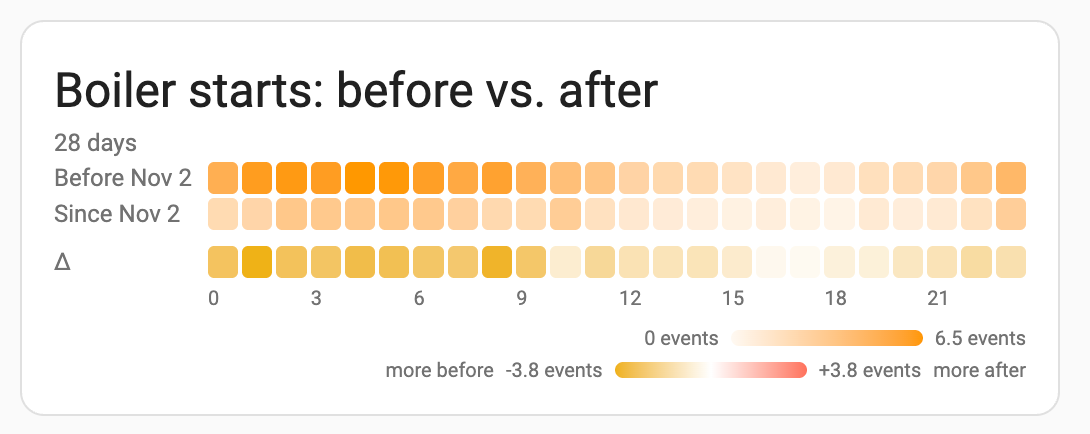
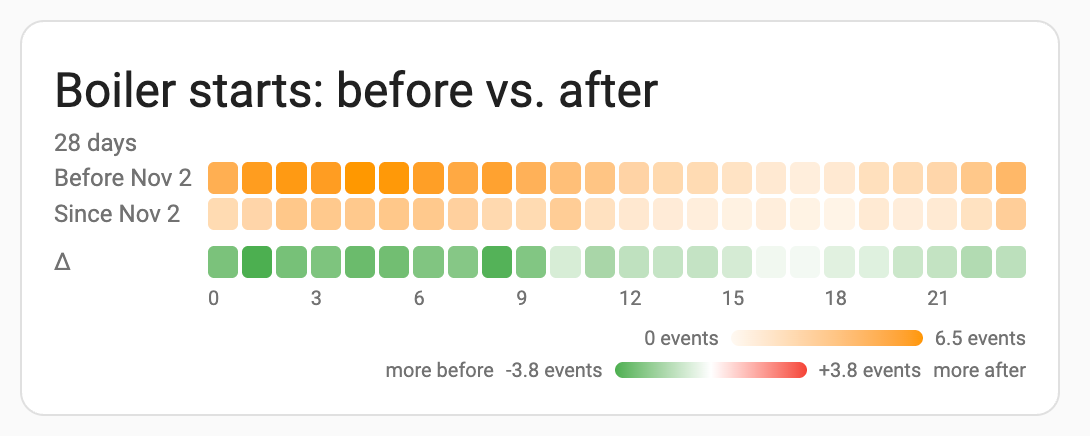
Farben im Vergleich einstellbar (0.7.0)
- compare_colors: [erste, zweite] für Linien, Bänder und Tooltip der
  beiden Gruppen (Standard: Graph-Farben 2 und 3)
- difference_colors: [weniger, mehr] für die Differenzzeile, z. B.
  [green, red] wenn weniger besser ist (Standard: Gruppenfarben)
- Editor: Farbwähler je Gruppe und für die Differenz, nach Vergleich
  beschriftet
- README/SPEC: Optionen, Beispiel vorher/nachher mit Grün/Rot und Bild

diff --git a/preview.html b/preview.html
@@ -107,7 +107,7 @@ customElements.define("ha-chart-base", class extends HTMLElement {
  * Lizenz: MIT
  */
 
-const CARD_VERSION = "0.6.3";
+const CARD_VERSION = "0.7.0";
 
 console.info(
   `%c PATTERN-CARD %c ${CARD_VERSION} `,
@@ -232,6 +232,11 @@ const I18N = {
     difference: "Difference row (weekend − workdays)",
     hide_legend: "Hide legend",
     hide_subtitle: "Hide subtitle (period and hints)",
+    color_of: "Color {group}",
+    color_less: "Difference: color for less",
+    color_more: "Difference: color for more",
+    group_before_short: "before",
+    group_after_short: "after",
   },
   de: {
     today: "Heute",
@@ -306,6 +311,11 @@ const I18N = {
     difference: "Differenzzeile (Wochenende − Werktage)",
     hide_legend: "Legende ausblenden",
     hide_subtitle: "Untertitel ausblenden (Zeitraum und Hinweise)",
+    color_of: "Farbe {group}",
+    color_less: "Differenz: Farbe für weniger",
+    color_more: "Differenz: Farbe für mehr",
+    group_before_short: "vorher",
+    group_after_short: "nachher",
   },
 };
 
@@ -1271,6 +1281,11 @@ class PatternCard extends HTMLElement {
     if (config.compare !== undefined && !COMPARE_MODES.includes(config.compare)) throw new Error("compare must be none, weekday_weekend or before_after");
     if (config.compare === "before_after" && dateKey(config.since) === null) throw new Error("compare: before_after needs since: YYYY-MM-DD");
     if (config.reference !== undefined && !REFERENCE_MODES.includes(config.reference)) throw new Error("reference must be auto or all");
+    for (const key of ["compare_colors", "difference_colors"]) {
+      if (config[key] !== undefined && !(Array.isArray(config[key]) && config[key].length <= 2)) {
+        throw new Error(`${key} must be a list of two colors`);
+      }
+    }
     if (config.band !== undefined && !BAND_MODES.includes(config.band)) throw new Error("band must be both, iqr, wide, minmax or none");
     const prev = this._config;
     this._config = { mode: "graph", ...config };
@@ -1586,8 +1601,14 @@ class PatternCard extends HTMLElement {
     const kind = this._info?.kind || "state";
     const user = cssColor(cfg.color);
     const neutral = this._resolveColor("var(--secondary-text-color)");
-    const workday = this._resolveColor("var(--graph-color-2, var(--color-2, #efb118))");
-    const weekend = this._resolveColor("var(--graph-color-3, var(--color-3, #ff725c))");
+    // Gruppenfarben: compare_colors oder die Graph-Farben 2 und 3 von HA
+    const cc = Array.isArray(cfg.compare_colors) ? cfg.compare_colors : [];
+    const workday = this._resolveColor(cssColor(cc[0]) || "var(--graph-color-2, var(--color-2, #efb118))");
+    const weekend = this._resolveColor(cssColor(cc[1]) || "var(--graph-color-3, var(--color-3, #ff725c))");
+    // Differenzzeile: difference_colors [weniger, mehr], sonst die Gruppenfarben
+    const dc = Array.isArray(cfg.difference_colors) ? cfg.difference_colors : [];
+    const diffLess = cssColor(dc[0]) ? this._resolveColor(cssColor(dc[0])) : workday;
+    const diffMore = cssColor(dc[1]) ? this._resolveColor(cssColor(dc[1])) : weekend;
     return {
       today: this._resolveColor(user || defaultColor(st, kind, true)),
       reference: neutral,
@@ -1597,6 +1618,8 @@ class PatternCard extends HTMLElement {
         : { workday: neutral, weekend: neutral, before: neutral, after: neutral, reference: neutral },
       workday,
       weekend,
+      diffLess,
+      diffMore,
       heat: user || defaultColor(st, kind, false),
     };
   }
@@ -1744,8 +1767,8 @@ class PatternCard extends HTMLElement {
     let diffMax = 0;
     if (diff) for (const c of diff) if (c.value != null) diffMax = Math.max(diffMax, Math.abs(c.value));
     if (!(diffMax > 0)) diffMax = 1;
-    const neg = parseRgb(colors.workday) || [239, 177, 24, 1];
-    const pos = parseRgb(colors.weekend) || [255, 114, 92, 1];
+    const neg = parseRgb(colors.diffLess) || [239, 177, 24, 1];
+    const pos = parseRgb(colors.diffMore) || [255, 114, 92, 1];
     const diffColor = (v) => {
       const c = v < 0 ? neg : pos;
       return rgbaString([c[0], c[1], c[2], Math.min(1, Math.abs(v) / diffMax)]);
@@ -1902,6 +1925,26 @@ const editorSchema = (cfg, kind, t) => {
     });
   }
   if (mode === "heatmap" && compare) schema.push({ name: "difference", selector: { boolean: {} } });
+  if (compare) {
+    schema.push({
+      type: "grid",
+      name: "",
+      schema: [
+        { name: "compare_color_1", selector: { ui_color: {} } },
+        { name: "compare_color_2", selector: { ui_color: {} } },
+      ],
+    });
+    if (mode === "heatmap" && cfg.difference !== false) {
+      schema.push({
+        type: "grid",
+        name: "",
+        schema: [
+          { name: "difference_color_less", selector: { ui_color: {} } },
+          { name: "difference_color_more", selector: { ui_color: {} } },
+        ],
+      });
+    }
+  }
   if (stats.length > 1) {
     schema.push({
       name: "statistic",
@@ -1974,11 +2017,22 @@ class PatternCardEditor extends HTMLElement {
       compare: "none",
       reference: "auto",
       difference: true,
+      compare_color_1: cfg.compare_colors?.[0],
+      compare_color_2: cfg.compare_colors?.[1],
+      difference_color_less: cfg.difference_colors?.[0],
+      difference_color_more: cfg.difference_colors?.[1],
       weekdays: [...WEEKDAYS],
       ...cfg,
       statistic: resolveStatistic(cfg.statistic, kind),
     };
-    form.computeLabel = (s) => this._t(s.name);
+    form.computeLabel = (s) => {
+      const groups = cfg.compare === "before_after" ? ["group_before_short", "group_after_short"] : ["group_workday", "group_weekend"];
+      if (s.name === "compare_color_1") return this._t("color_of", { group: this._t(groups[0]) });
+      if (s.name === "compare_color_2") return this._t("color_of", { group: this._t(groups[1]) });
+      if (s.name === "difference_color_less") return this._t("color_less");
+      if (s.name === "difference_color_more") return this._t("color_more");
+      return this._t(s.name);
+    };
     form.computeHelper = (s) => ({
       days: this._t("helper_days"),
       resolution: this._t("helper_resolution"),
@@ -2015,6 +2069,13 @@ class PatternCardEditor extends HTMLElement {
     if (v.difference === true) delete v.difference;
     if (v.hide_legend === false) delete v.hide_legend;
     if (v.hide_subtitle === false) delete v.hide_subtitle;
+    // Einzelfelder der Farbwähler wieder zu Listen zusammenfassen
+    const pair = (a, b) => (a || b ? [a ?? null, b ?? null] : undefined);
+    v.compare_colors = pair(v.compare_color_1, v.compare_color_2);
+    v.difference_colors = pair(v.difference_color_less, v.difference_color_more);
+    for (const k of ["compare_color_1", "compare_color_2", "difference_color_less", "difference_color_more"]) delete v[k];
+    if (!v.compare || v.compare === "none") { delete v.compare_colors; delete v.difference_colors; }
+    if (v.mode !== "heatmap" || v.difference === false) delete v.difference_colors;
     if (kind !== "counter") delete v.cumulative;
     Object.keys(v).forEach((k) => {
       if (v[k] === undefined || v[k] === "" || v[k] === null) delete v[k];
@@ -2136,7 +2197,7 @@ const configs = [
   { type: "custom:pattern-card", entity: "binary_sensor.bewegung", mode: "graph", days: 28 },
   { type: "custom:pattern-card", entity: "sensor.leistung", mode: "graph", days: 28, compare: "weekday_weekend", name: L("Werktage gegen Wochenende", "Workdays vs. weekend") },
   { type: "custom:pattern-card", entity: "binary_sensor.bewegung", mode: "heatmap", days: 28, compare: "weekday_weekend", name: L("Belegung Werktage/Wochenende", "Occupancy: workdays vs. weekend") },
-  { type: "custom:pattern-card", entity: "binary_sensor.therme", mode: "heatmap", days: 28, statistic: "events", compare: "before_after", since: SINCE, name: L("Brennerstarts vorher/nachher", "Boiler starts: before vs. after") },
+  { type: "custom:pattern-card", entity: "binary_sensor.therme", mode: "heatmap", days: 28, statistic: "events", compare: "before_after", since: SINCE, difference_colors: ["green", "red"], name: L("Brennerstarts vorher/nachher", "Boiler starts: before vs. after") },
 ];
 
 const yaml = (c) => Object.entries(c).map(([k, v]) => `${k}: ${Array.isArray(v) ? `[${v.join(", ")}]` : v}`).join("\n");

diff --git a/pattern-card.js b/pattern-card.js
@@ -14,7 +14,7 @@
  * Lizenz: MIT
  */
 
-const CARD_VERSION = "0.6.3";
+const CARD_VERSION = "0.7.0";
 
 console.info(
   `%c PATTERN-CARD %c ${CARD_VERSION} `,
@@ -139,6 +139,11 @@ const I18N = {
     difference: "Difference row (weekend − workdays)",
     hide_legend: "Hide legend",
     hide_subtitle: "Hide subtitle (period and hints)",
+    color_of: "Color {group}",
+    color_less: "Difference: color for less",
+    color_more: "Difference: color for more",
+    group_before_short: "before",
+    group_after_short: "after",
   },
   de: {
     today: "Heute",
@@ -213,6 +218,11 @@ const I18N = {
     difference: "Differenzzeile (Wochenende − Werktage)",
     hide_legend: "Legende ausblenden",
     hide_subtitle: "Untertitel ausblenden (Zeitraum und Hinweise)",
+    color_of: "Farbe {group}",
+    color_less: "Differenz: Farbe für weniger",
+    color_more: "Differenz: Farbe für mehr",
+    group_before_short: "vorher",
+    group_after_short: "nachher",
   },
 };
 
@@ -1178,6 +1188,11 @@ class PatternCard extends HTMLElement {
     if (config.compare !== undefined && !COMPARE_MODES.includes(config.compare)) throw new Error("compare must be none, weekday_weekend or before_after");
     if (config.compare === "before_after" && dateKey(config.since) === null) throw new Error("compare: before_after needs since: YYYY-MM-DD");
     if (config.reference !== undefined && !REFERENCE_MODES.includes(config.reference)) throw new Error("reference must be auto or all");
+    for (const key of ["compare_colors", "difference_colors"]) {
+      if (config[key] !== undefined && !(Array.isArray(config[key]) && config[key].length <= 2)) {
+        throw new Error(`${key} must be a list of two colors`);
+      }
+    }
     if (config.band !== undefined && !BAND_MODES.includes(config.band)) throw new Error("band must be both, iqr, wide, minmax or none");
     const prev = this._config;
     this._config = { mode: "graph", ...config };
@@ -1493,8 +1508,14 @@ class PatternCard extends HTMLElement {
     const kind = this._info?.kind || "state";
     const user = cssColor(cfg.color);
     const neutral = this._resolveColor("var(--secondary-text-color)");
-    const workday = this._resolveColor("var(--graph-color-2, var(--color-2, #efb118))");
-    const weekend = this._resolveColor("var(--graph-color-3, var(--color-3, #ff725c))");
+    // Gruppenfarben: compare_colors oder die Graph-Farben 2 und 3 von HA
+    const cc = Array.isArray(cfg.compare_colors) ? cfg.compare_colors : [];
+    const workday = this._resolveColor(cssColor(cc[0]) || "var(--graph-color-2, var(--color-2, #efb118))");
+    const weekend = this._resolveColor(cssColor(cc[1]) || "var(--graph-color-3, var(--color-3, #ff725c))");
+    // Differenzzeile: difference_colors [weniger, mehr], sonst die Gruppenfarben
+    const dc = Array.isArray(cfg.difference_colors) ? cfg.difference_colors : [];
+    const diffLess = cssColor(dc[0]) ? this._resolveColor(cssColor(dc[0])) : workday;
+    const diffMore = cssColor(dc[1]) ? this._resolveColor(cssColor(dc[1])) : weekend;
     return {
       today: this._resolveColor(user || defaultColor(st, kind, true)),
       reference: neutral,
@@ -1504,6 +1525,8 @@ class PatternCard extends HTMLElement {
         : { workday: neutral, weekend: neutral, before: neutral, after: neutral, reference: neutral },
       workday,
       weekend,
+      diffLess,
+      diffMore,
       heat: user || defaultColor(st, kind, false),
     };
   }
@@ -1651,8 +1674,8 @@ class PatternCard extends HTMLElement {
     let diffMax = 0;
     if (diff) for (const c of diff) if (c.value != null) diffMax = Math.max(diffMax, Math.abs(c.value));
     if (!(diffMax > 0)) diffMax = 1;
-    const neg = parseRgb(colors.workday) || [239, 177, 24, 1];
-    const pos = parseRgb(colors.weekend) || [255, 114, 92, 1];
+    const neg = parseRgb(colors.diffLess) || [239, 177, 24, 1];
+    const pos = parseRgb(colors.diffMore) || [255, 114, 92, 1];
     const diffColor = (v) => {
       const c = v < 0 ? neg : pos;
       return rgbaString([c[0], c[1], c[2], Math.min(1, Math.abs(v) / diffMax)]);
@@ -1809,6 +1832,26 @@ const editorSchema = (cfg, kind, t) => {
     });
   }
   if (mode === "heatmap" && compare) schema.push({ name: "difference", selector: { boolean: {} } });
+  if (compare) {
+    schema.push({
+      type: "grid",
+      name: "",
+      schema: [
+        { name: "compare_color_1", selector: { ui_color: {} } },
+        { name: "compare_color_2", selector: { ui_color: {} } },
+      ],
+    });
+    if (mode === "heatmap" && cfg.difference !== false) {
+      schema.push({
+        type: "grid",
+        name: "",
+        schema: [
+          { name: "difference_color_less", selector: { ui_color: {} } },
+          { name: "difference_color_more", selector: { ui_color: {} } },
+        ],
+      });
+    }
+  }
   if (stats.length > 1) {
     schema.push({
       name: "statistic",
@@ -1881,11 +1924,22 @@ class PatternCardEditor extends HTMLElement {
       compare: "none",
       reference: "auto",
       difference: true,
+      compare_color_1: cfg.compare_colors?.[0],
+      compare_color_2: cfg.compare_colors?.[1],
+      difference_color_less: cfg.difference_colors?.[0],
+      difference_color_more: cfg.difference_colors?.[1],
       weekdays: [...WEEKDAYS],
       ...cfg,
       statistic: resolveStatistic(cfg.statistic, kind),
     };
-    form.computeLabel = (s) => this._t(s.name);
+    form.computeLabel = (s) => {
+      const groups = cfg.compare === "before_after" ? ["group_before_short", "group_after_short"] : ["group_workday", "group_weekend"];
+      if (s.name === "compare_color_1") return this._t("color_of", { group: this._t(groups[0]) });
+      if (s.name === "compare_color_2") return this._t("color_of", { group: this._t(groups[1]) });
+      if (s.name === "difference_color_less") return this._t("color_less");
+      if (s.name === "difference_color_more") return this._t("color_more");
+      return this._t(s.name);
+    };
     form.computeHelper = (s) => ({
       days: this._t("helper_days"),
       resolution: this._t("helper_resolution"),
@@ -1922,6 +1976,13 @@ class PatternCardEditor extends HTMLElement {
     if (v.difference === true) delete v.difference;
     if (v.hide_legend === false) delete v.hide_legend;
     if (v.hide_subtitle === false) delete v.hide_subtitle;
+    // Einzelfelder der Farbwähler wieder zu Listen zusammenfassen
+    const pair = (a, b) => (a || b ? [a ?? null, b ?? null] : undefined);
+    v.compare_colors = pair(v.compare_color_1, v.compare_color_2);
+    v.difference_colors = pair(v.difference_color_less, v.difference_color_more);
+    for (const k of ["compare_color_1", "compare_color_2", "difference_color_less", "difference_color_more"]) delete v[k];
+    if (!v.compare || v.compare === "none") { delete v.compare_colors; delete v.difference_colors; }
+    if (v.mode !== "heatmap" || v.difference === false) delete v.difference_colors;
     if (kind !== "counter") delete v.cumulative;
     Object.keys(v).forEach((k) => {
       if (v[k] === undefined || v[k] === "" || v[k] === null) delete v[k];

diff --git a/tools/preview.template.html b/tools/preview.template.html
@@ -193,7 +193,7 @@ const configs = [
   { type: "custom:pattern-card", entity: "binary_sensor.bewegung", mode: "graph", days: 28 },
   { type: "custom:pattern-card", entity: "sensor.leistung", mode: "graph", days: 28, compare: "weekday_weekend", name: L("Werktage gegen Wochenende", "Workdays vs. weekend") },
   { type: "custom:pattern-card", entity: "binary_sensor.bewegung", mode: "heatmap", days: 28, compare: "weekday_weekend", name: L("Belegung Werktage/Wochenende", "Occupancy: workdays vs. weekend") },
-  { type: "custom:pattern-card", entity: "binary_sensor.therme", mode: "heatmap", days: 28, statistic: "events", compare: "before_after", since: SINCE, name: L("Brennerstarts vorher/nachher", "Boiler starts: before vs. after") },
+  { type: "custom:pattern-card", entity: "binary_sensor.therme", mode: "heatmap", days: 28, statistic: "events", compare: "before_after", since: SINCE, difference_colors: ["green", "red"], name: L("Brennerstarts vorher/nachher", "Boiler starts: before vs. after") },
 ];
 
 const yaml = (c) => Object.entries(c).map(([k, v]) => `${k}: ${Array.isArray(v) ? `[${v.join(", ")}]` : v}`).join("\n");

diff --git a/SPEC.md b/SPEC.md
@@ -23,6 +23,8 @@ resolution: auto            # auto | 5min | 15min | 30min | hour
 # nur graph
 compare: none               # none | weekday_weekend (ab 0.2.0) | before_after (ab 0.6.0)
 since: 2026-11-12           # nur before_after: Stichtag, ab dem Tage als „nachher“ zählen
+compare_colors: [blue, red]  # ab 0.7.0: Farben der beiden Gruppen
+difference_colors: [green, red]  # ab 0.7.0: Differenzzeile weniger/mehr
 reference: auto             # nur graph ohne compare: auto (Tage derselben Art wie heute) | all
 difference: true            # nur heatmap mit compare: Differenzzeile Wochenende − Werktage
 band: both                  # both (10–90 % und 25–75 %) | iqr | wide (10–90 %) | minmax | none
@@ -129,6 +131,15 @@ Entschieden mit Lucas am 2026-11-12: zwei ineinanderliegende Perzentil-Bänder s
 - **`wide`**: nur 10–90 %. **`iqr`**: nur 25–75 % (Standard bis 0.2.0). **`minmax`** und **`none`** wie bisher
 - **Wenige Tage**: Unter 10 Tagen mit Daten entfällt 10–90 % (die Werte lägen nahe an Min und Max und schwankten stark), der Tooltip nennt „Spanne 10–90 % ab 10 Tagen“. Unter 4 Tagen gibt es nur Min–Max
 - **Vergleich** (`compare`): `both` zeigt je Referenz nur 25–75 %, sonst überlagern sich vier Flächen. Wer `wide` ausdrücklich setzt, bekommt je Referenz 10–90 %
+
+## Farben im Vergleich (0.7.0)
+
+Wunsch Lucas (2026-11-12): Die Farben müssen zur Bedeutung passen, etwa Temperatur (blau–rot) oder subjektiv (weniger = besser = grün).
+
+- **`compare_colors: [erste, zweite]`**: Farben der Gruppen (Werktage/Wochenende bzw. vorher/nachher) für Linien, Bänder und Tooltip. Standard sind die Graph-Farben 2 und 3 von HA. Werte wie bei `color`: Theme-Name, Hex, CSS oder `[r, g, b]`, einzelne Einträge dürfen `null` sein
+- **`difference_colors: [weniger, mehr]`**: Farben der Differenzzeile; „weniger“ gilt, wenn die zweite Gruppe niedriger liegt (Nachher − Vorher < 0). Standard sind die Gruppenfarben, damit „mehr vorher“ in der Vorher-Farbe erscheint
+- Bewusst getrennt: Die Gruppenfarbe sagt „welcher Zeitraum“, die Differenzfarbe „besser oder schlechter“. Mit einer einzigen Liste ließe sich „weniger = grün“ nur über eine grüne Vorher-Linie erreichen
+- Editor: zwei Farbwähler je Liste, beschriftet nach Vergleich („Farbe vorher“, „Differenz: Farbe für weniger“); die Differenzfarben nur in der Heatmap mit Differenzzeile
 
 ## Vorher/Nachher (0.6.0)
 

diff --git a/README.md b/README.md
@@ -112,9 +112,10 @@ mode: heatmap
 statistic: events
 compare: before_after
 since: "2026-11-12"
+difference_colors: [green, red]   # fewer starts = good
 ```
 
-Did a new pump setting reduce how often the boiler starts? The heatmap shows the days before and from the given date on, plus a difference row (after − before). In graph mode both periods appear as two references.
+Did a new pump setting reduce how often the boiler starts? The heatmap shows the days before and from the given date on, plus a difference row (after − before). In graph mode both periods appear as two references. `difference_colors` sets the colors for "less" and "more" in the difference row, here green for fewer starts. For a temperature you might use `[blue, red]`; `compare_colors` sets the colors of the two periods themselves.
 
 ![Heatmap comparing boiler starts before and after a change](docs/images/heatmap-before-after.png)
 
@@ -132,6 +133,8 @@ All options can also be set in the visual editor.
 | `statistic` | by type | `active` or `events` for states, `mean` for measurements, `sum` for counters |
 | `resolution` | `auto` | `auto`, `5min`, `15min`, `30min`, `hour`. Auto: graph 15 min where the data allows it, heatmap 1 h |
 | `compare` | `none` | `weekday_weekend`: the graph shows workdays and weekend as two references; the heatmap shows Mon–Fri and Sat–Sun plus a difference row. `before_after`: days before vs. from `since` on, e.g. to check the effect of a change |
+| `compare_colors` | graph colors 2 and 3 | With `compare`: colors of the two groups (lines, bands, tooltip), e.g. `[blue, red]` |
+| `difference_colors` | `compare_colors` | Heatmap with `compare`: colors of the difference row for less and more, e.g. `[green, red]` when less is better |
 | `since` | – | With `compare: before_after`: date of the change (`YYYY-MM-DD`) |
 | `reference` | `auto` | Graph without `compare`: `auto` uses the days of the same kind as today, `all` uses every day. Ignored when `weekdays` is set |
 | `difference` | `true` | Heatmap with `compare`: show the difference row |
